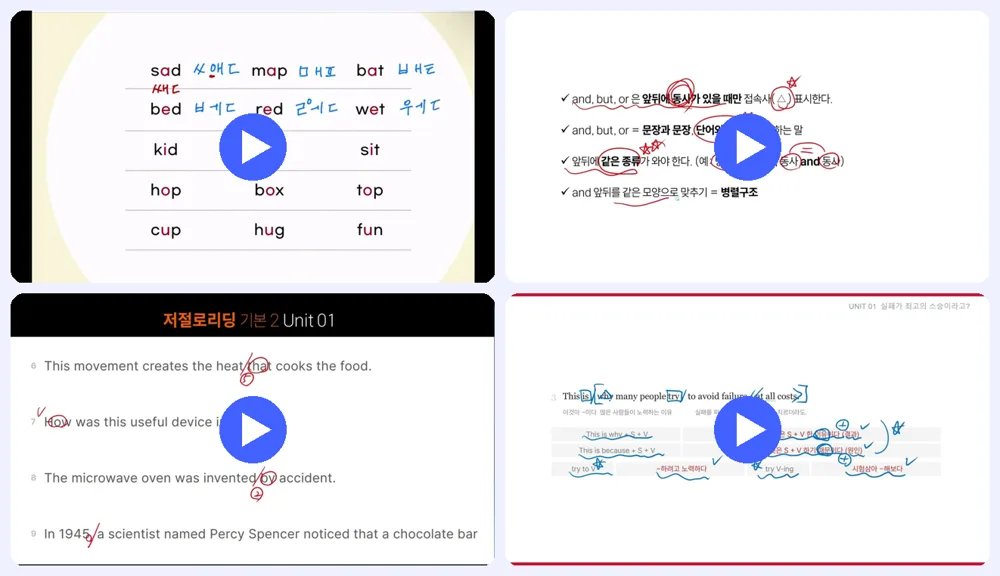
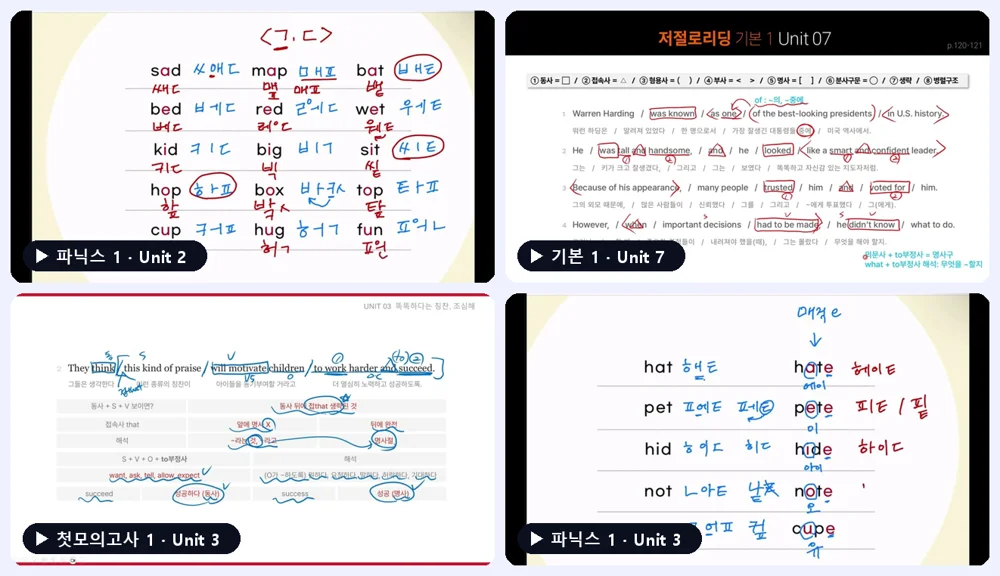
학원 도입: 저자 직강 영상 = 필기 화면 캡처(파닉스·기본·첫모의), '주요 교재 저자 직강 영상'

diff --git a/academy/index.html b/academy/index.html
@@ -283,7 +283,7 @@
     <h1>교재가 아니라,<br><span class="gt">학원 영어 시스템</span>입니다</h1>
     <div class="abft">
       <div><span class="ic"><svg viewBox="0 0 24 24" aria-hidden="true"><path fill="none" stroke="currentColor" stroke-width="2" stroke-linejoin="round" d="M6 3h8l4 4v14H6zM14 3v4h4M9 13h6M9 17h6"/></svg></span><b>가맹비·로열티 0원</b></div>
-      <div><span class="ic"><svg viewBox="0 0 24 24" aria-hidden="true"><rect x="3" y="5" width="18" height="14" rx="3" fill="none" stroke="currentColor" stroke-width="2"/><path fill="currentColor" d="M10 9.2v5.6l5-2.8z"/></svg></span><b>저자 직강 영상</b></div>
+      <div><span class="ic"><svg viewBox="0 0 24 24" aria-hidden="true"><rect x="3" y="5" width="18" height="14" rx="3" fill="none" stroke="currentColor" stroke-width="2"/><path fill="currentColor" d="M10 9.2v5.6l5-2.8z"/></svg></span><b>주요 교재 저자 직강 영상</b></div>
       <div><span class="ic"><svg viewBox="0 0 24 24" aria-hidden="true"><path fill="none" stroke="currentColor" stroke-width="2" stroke-linecap="round" d="M5 4h14v16H5zM8 9h8M8 13h8M8 17h5"/></svg></span><b>수업 도구 무료</b></div>
     </div>
     <div class="tcta"><a class="big" href="#apply">무료 견적 받기 →</a><small>30권 이상 · 사업자 학원·공부방 대상</small></div>
@@ -301,7 +301,7 @@
   <div class="sh rev"><h2>교재와 함께 오는 수업 도구</h2><p>모두 무료예요. 선생님은 수업에만 집중하세요.</p></div>
   <div class="atools">
     <figure class="rev"><div class="shot"><img src="/academy/img/tool_workbook.webp" alt="워크북 만들기 화면" loading="lazy"></div><figcaption><b>워크북 만들기</b><span>유닛만 고르면 단어 뜻·단어 쓰기·문장 해석·어순 배열·듣고 빈칸 쓰기 워크북이 정답지와 함께 바로 나와요</span></figcaption></figure>
-    <figure class="rev"><div class="shot"><img src="/academy/img/tool_lecture.webp" alt="저자 강의 영상" loading="lazy"></div><figcaption><b>저자 직강 영상</b><span>저자가 직접 강의한 영상을 책의 QR로 바로 봐요. 수업 준비와 학생 복습에 그대로 써요</span></figcaption></figure>
+    <figure class="rev"><div class="shot"><img src="/academy/img/tool_lecture.webp?v=2" alt="저자 강의 영상" loading="lazy"></div><figcaption><b>주요 교재 저자 직강 영상</b><span>저자가 직접 판서하며 강의한 영상을 책의 QR로 바로 봐요. 수업 준비와 학생 복습에 그대로 써요</span></figcaption></figure>
   </div>
 </div></section>
 
